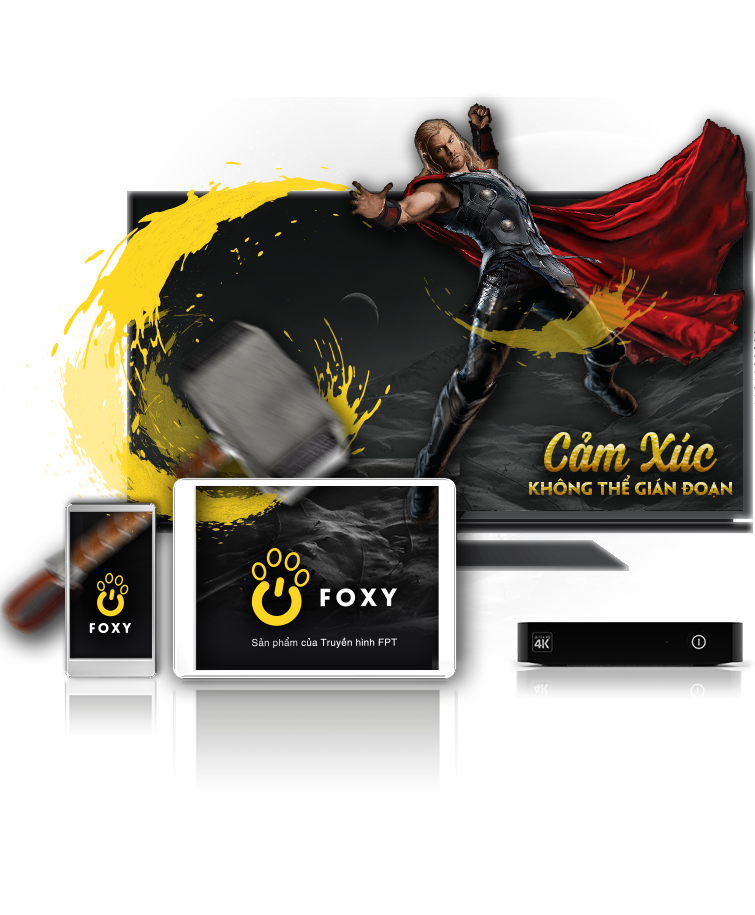
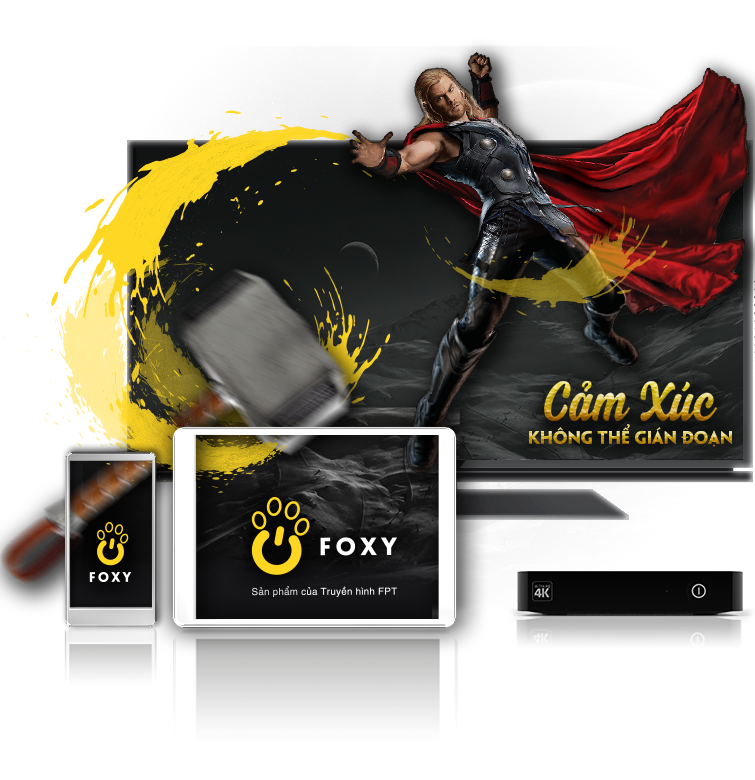
Update foxy

diff --git a/Foxy/index.html b/Foxy/index.html
@@ -121,7 +121,7 @@
 				<div class="container">
 					<div class="row">
 						<div class="col-lg-12 col-md-12 col-sm-12 col-xs-12 ">
-								<div class="row row_bg align-items-center">	
+								<div class="row row_bg row_bg_top align-items-center">	
 									<div class="col-lg-5 col-md-12 col-sm-5 col-xs-12 content_top content_top_1" >
 										
 										<h2 class="title_big">Một sản phẩm của <br>Truyền hình FPT </h2>
@@ -331,26 +331,32 @@
 										</div>
 									</div>
 									<div class="row">
-										<div class="col-lg-6 col-md-12 col-sm-12 col-xs-12" >
+										<div class="col-lg-6 col-md-6 col-sm-12 col-xs-12 line_foxy">
 											<div class="package_foxy">
-												<img class="img_foxy" src="images/Foxy2.png" alt="" width="">
-												<div class="content">
+												<a data-toggle="modal" data-target="#ShowRegister_Q">
+													<img class="img_foxy" src="images/Foxy2.png" alt="" width="">
+													<img class="img_foxy img_foxy_m" src="images/Foxy2_m.png" alt="" width="">
+												</a>
+												<!--<div class="content">
 													<ul>
 														<li><p><span class="color">&bull;</span>&nbsp;&nbsp;Kết nối được <b class="text_color">02</b> thiết bị</p></li>
 														<li class="not_show"><p><span class="color">&bull;</span>&nbsp;&nbsp;Miễn phí 30 ngày sử dụng</p></li>
 													</ul>
-												</div>
+												</div>-->
 											</div>
 										</div>
-										<div class="col-lg-6 col-md-12 col-sm-12 col-xs-12" >
+										<div class="col-lg-6 col-md-6 col-sm-12 col-xs-12" >
 											<div class="package_foxy">
-												<img class="img_foxy" src="images/Foxy4.png" alt="" width="">
-												<div class="content">
+												<a data-toggle="modal" data-target="#ShowRegister_Q">
+													<img class="img_foxy" src="images/Foxy4.png" alt="" width="">
+													<img class="img_foxy img_foxy_m" src="images/Foxy4_m.png" alt="" width="">
+												</a>
+												<!--<div class="content">
 													<ul>
 														<li><p><span class="color">&bull;</span>&nbsp;&nbsp;Kết nối được <b class="text_color">04</b> thiết bị</p></li>
 														<li class="not_show"><p><span class="color">&bull;</span>&nbsp;&nbsp;Miễn phí 30 ngày sử dụng</p></li>
 													</ul>
-												</div>
+												</div>-->
 											</div>
 										</div>
 									</div>

diff --git a/Foxy/css/common.css b/Foxy/css/common.css
@@ -51,6 +51,12 @@
   background-repeat: no-repeat;
   background-size: 100%;
 }
+.source-icon-line-foxy {
+  background-image: url(../images/line_foxy.png);
+  background-image: -webkit-image-set(url(../images/line_foxy.png) 1x, url(../images/line_foxy@2x.png) 2x, url(../images/line_foxy@3x.png) 3x);
+  background-repeat: no-repeat;
+  background-size: 100%;
+}
 .Shows-xs {
   display: none !important;
 }
@@ -1581,9 +1587,31 @@ button.close span {
 #fp-nav.fp-left {
   left: 8px;
 }
+.line_foxy {
+  position: relative;
+}
+.line_foxy:after {
+  width: 11px;
+  height: 358px;
+  background-image: url(../images/line_foxy.png);
+  background-image: -webkit-image-set(url(../images/line_foxy.png) 1x, url(../images/line_foxy@2x.png) 2x, url(../images/line_foxy@3x.png) 3x);
+  background-repeat: no-repeat;
+  background-size: 100%;
+  display: block;
+  position: absolute;
+  top: 76px;
+  right: -6px;
+  content: "";
+}
+.img_foxy_m {
+  display: none;
+}
 @media (max-width: 1440px) {
   #fp-nav.fp-left {
     left: 4px;
+  }
+  .package_foxy {
+    width: 100%;
   }
 }
 @media (max-width: 1400px) {
@@ -1774,11 +1802,17 @@ button.close span {
     margin-bottom: 56px;
   }
   .package_foxy {
-    width: 70%;
+    width: 100%;
   }
   .row_bg img {
     max-width: 100%;
     margin-top: 24px;
+  }
+  .img_foxy {
+    display: none !important;
+  }
+  .img_foxy_m {
+    display: block !important;
   }
 }
 @media (max-width: 475px) {
@@ -2153,6 +2187,9 @@ button.close span {
     line-height: 24px;
     font-size: 20px;
     min-width: 90px;
+  }
+  .row_bg_top img {
+    max-height: 380px;
   }
 }
 @media (max-width: 320px) {

diff --git a/Foxy/css/common.less b/Foxy/css/common.less
@@ -644,10 +644,14 @@ button.close{height: 40px;width: 40px;position: absolute;top:0;right: 0;z-index:
 }
 .img_top img{background-color: #06080d;float:right;}
 #fp-nav.fp-left{left: 8px;}
-
+.line_foxy{position: relative;
+	&:after{width: 11px;height: 358px;.source-icon-line-foxy();display: block;position: absolute;top:76px;right: -6px;content: "";}
+}
+.img_foxy_m{display: none};
 
 @media (max-width: 1440px){
 	#fp-nav.fp-left{left: 4px;}
+	.package_foxy{width: 100%}
 }
 @media (max-width: 1400px){
 	.item.big img {height: 555px;width: 555px;}
@@ -717,8 +721,10 @@ button.close{height: 40px;width: 40px;position: absolute;top:0;right: 0;z-index:
 		img{display: block;margin: 48px auto 0 auto;max-width: 600px;max-height: 560px;width: auto;}
 	}
 	#Showregister .info_cus{margin-top: 0;margin-bottom: 24px;margin-bottom: 56px;}
-	.package_foxy{width: 70%; }
+	.package_foxy{width: 100%; }
 	.row_bg img{max-width: 100%;margin-top: 24px; }
+	.img_foxy{display: none !important;};
+	.img_foxy_m{display: block !important;};
 }
 
 @media (max-width: 475px){
@@ -839,6 +845,9 @@ button.close{height: 40px;width: 40px;position: absolute;top:0;right: 0;z-index:
 	.ribbon{top:4px;height: 50px;
 		.title{line-height: 26px;font-size: 14px;}
 		.content{line-height: 24px;font-size: 20px;min-width: 90px;}
+	}
+	.row_bg_top{
+		img{max-height: 380px}
 	}
 }
 

diff --git a/Foxy/css/header.css b/Foxy/css/header.css
@@ -51,6 +51,12 @@
   background-repeat: no-repeat;
   background-size: 100%;
 }
+.source-icon-line-foxy {
+  background-image: url(../images/line_foxy.png);
+  background-image: -webkit-image-set(url(../images/line_foxy.png) 1x, url(../images/line_foxy@2x.png) 2x, url(../images/line_foxy@3x.png) 3x);
+  background-repeat: no-repeat;
+  background-size: 100%;
+}
 .HeaderPage {
   position: fixed;
   z-index: 5;

diff --git a/Foxy/css/library.less b/Foxy/css/library.less
@@ -112,3 +112,10 @@
   url(../images/1954@3x.png) 3x);
   background-repeat: no-repeat;background-size: 100%;
 }
+.source-icon-line-foxy{
+  background-image: url(../images/line_foxy.png);
+  background-image: -webkit-image-set(url(../images/line_foxy.png) 1x,
+  url(../images/line_foxy@2x.png) 2x,
+  url(../images/line_foxy@3x.png) 3x);
+  background-repeat: no-repeat;background-size: 100%;
+}
